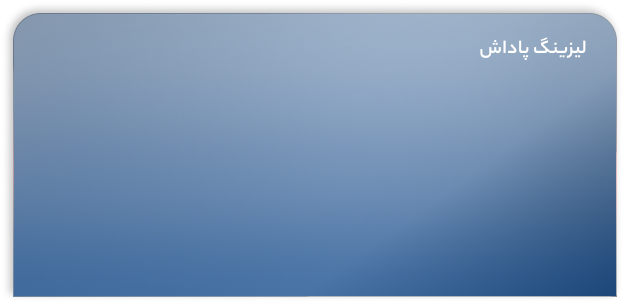
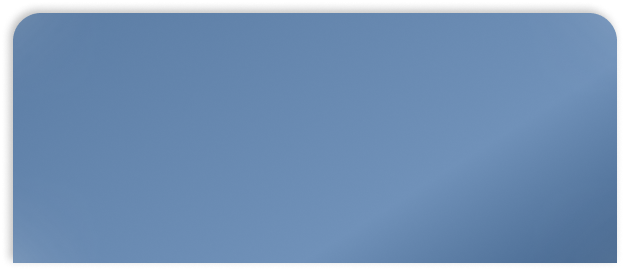
feat: handle label in cards

diff --git a/src/views/pages/home/Cards.tsx b/src/views/pages/home/Cards.tsx
@@ -60,60 +60,20 @@ const Cards = () => {
     return () => clearInterval(interval);
   }, []);
 
+  const cardData = [
+    { link: "#", label: "صندوق های پاداش(سبدگردان)", top: 3 },
+    { link: "#", label: "مشاور سرمایه گذاری", top: 2 },
+    { link: "#", label: "کارگزاری پاداش", top: 1 },
+    { link: "#", label: "لیزینگ پاداش", top: 0 },
+  ];
+
   return (
     <div className="relative min-h-[24rem] md:min-h-[30rem]">
       <div className="flex">
         <div className="flex-1 cards-section-bg-right h-[360px] md:h-[512px]"></div>
         <div className="flex-1 cards-section-bg-left h-[360px] md:h-[512px]"></div>
       </div>
-      {/* <div className="container mx-auto justify-center flex mt-[-7rem] md:mt-[-10rem]">
-        <div className="w-[320px] md:w-[512px] text-center justify-center items-center flex flex-col relative">
-          <div className="absolute">
-            <Image
-              className=""
-              src={"/images/cards-pocket-bg.png"}
-              alt={"section"}
-              width={470}
-              height={400}
-            />
-          </div>
 
-          <div className="absolute">
-            {[3, 2, 1, 0].map((top, index) => (
-              <AnimatedCard
-                key={index}
-                top={top}
-                isactive={activeCard === index && hoveredCard !== index}
-                ishovered={hoveredCard === index}
-                onMouseEnter={() => setHoveredCard(index)}
-                onMouseLeave={() => setHoveredCard(null)}
-                className="group"
-              >
-                <Image
-                  src={"/images/pocket-card-bg.png"}
-                  alt={"section"}
-                  width={460}
-                  height={400}
-                />
-                <div className=" transition-all text-left text-white ml-4 md:ml-8 mt-[-132px] md:mt-[-200px] hidden group-hover:block">
-                  <Link href={"#"} className="border rounded px-2 text-sm pt-1">
-                    اطلاعات بیشتر 1
-                  </Link>
-                </div>
-              </AnimatedCard>
-            ))}
-          </div>
-
-          <div className="absolute bottom-[-104px] md:bottom-[-174px] m-[-10px] md:m-[8px]">
-            <Image
-              src={"/images/cards-pocket.png"}
-              alt={"section"}
-              width={520}
-              height={400}
-            />
-          </div>
-        </div>
-      </div> */}
       <div className="container mx-auto justify-center flex mt-[-7rem] md:mt-[-10rem] md:scale-110">
         <div className="w-[310px] md:w-[500px] text-center justify-center items-center flex flex-col relative">
           <div className="absolute">
@@ -126,10 +86,10 @@ const Cards = () => {
           </div>
 
           <div className="absolute">
-            {[3, 2, 1, 0].map((top, index) => (
+            {cardData.map((item, index) => (
               <AnimatedCard
                 key={index}
-                top={top}
+                top={item.top}
                 isactive={activeCard === index && hoveredCard !== index}
                 ishovered={hoveredCard === index}
                 onMouseEnter={() => setHoveredCard(index)}
@@ -144,10 +104,11 @@ const Cards = () => {
                 />
                 <div className="absolute top-4 right-4 text-white text-lg font-bold">
                   {/* عنوان کارت */}
+                  <span className="text-xs ">{item.label}</span>
                 </div>
                 <div className="absolute top-4 left-4 flex items-center space-x-2">
                   <Link
-                    href={"#"}
+                    href={item.link}
                     className="border border-white rounded-2xl px-2 text-sm py-[2px] md:py-1 flex items-center text-white"
                   >
                     <span className="text-xs md:text-sm ">اطلاعات بیشتر</span>
